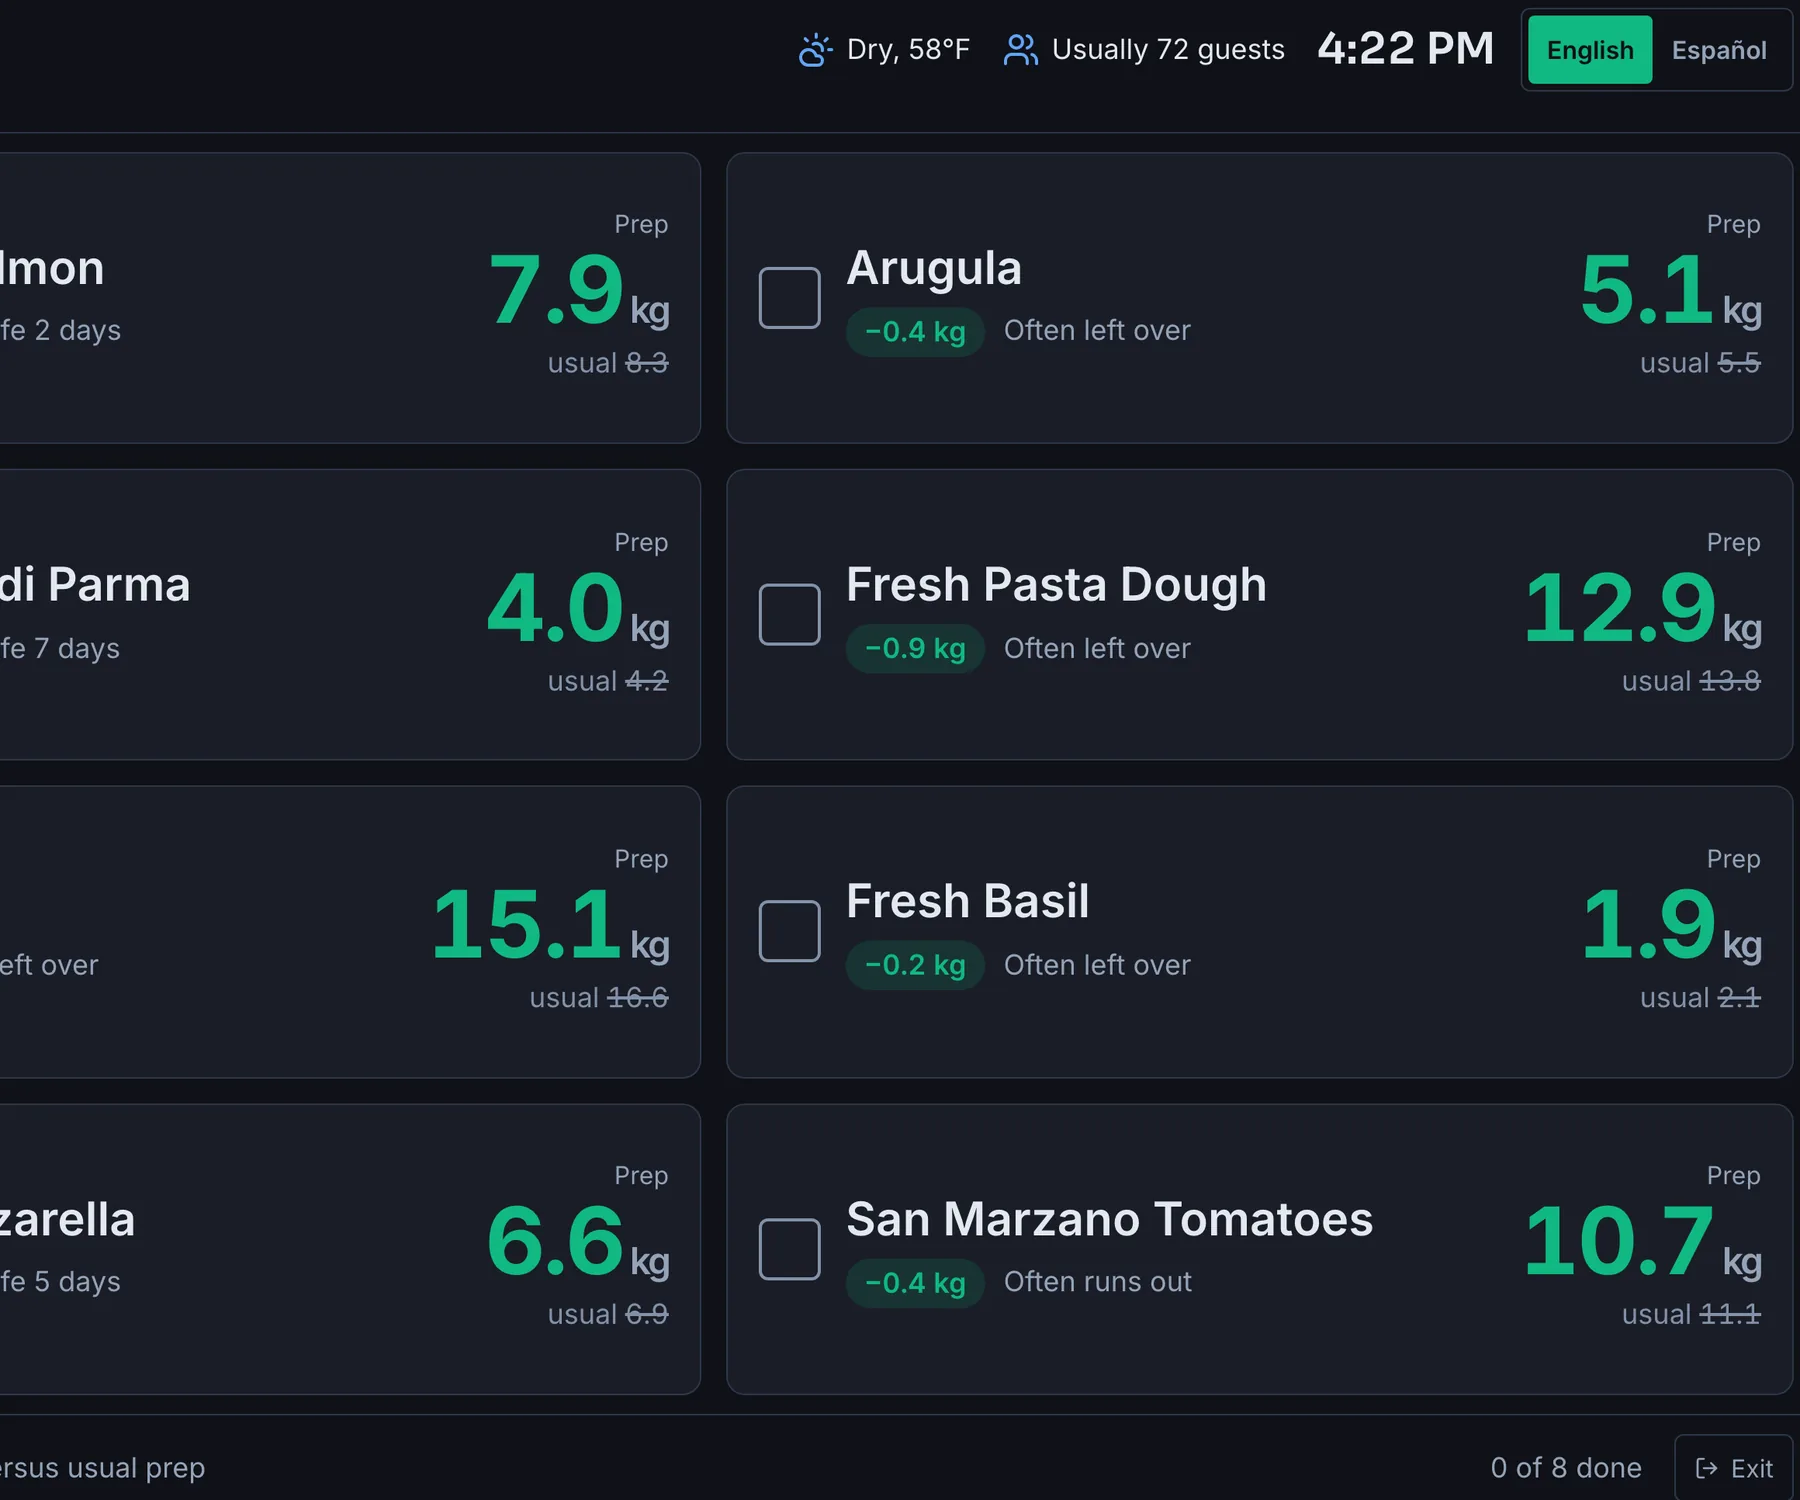
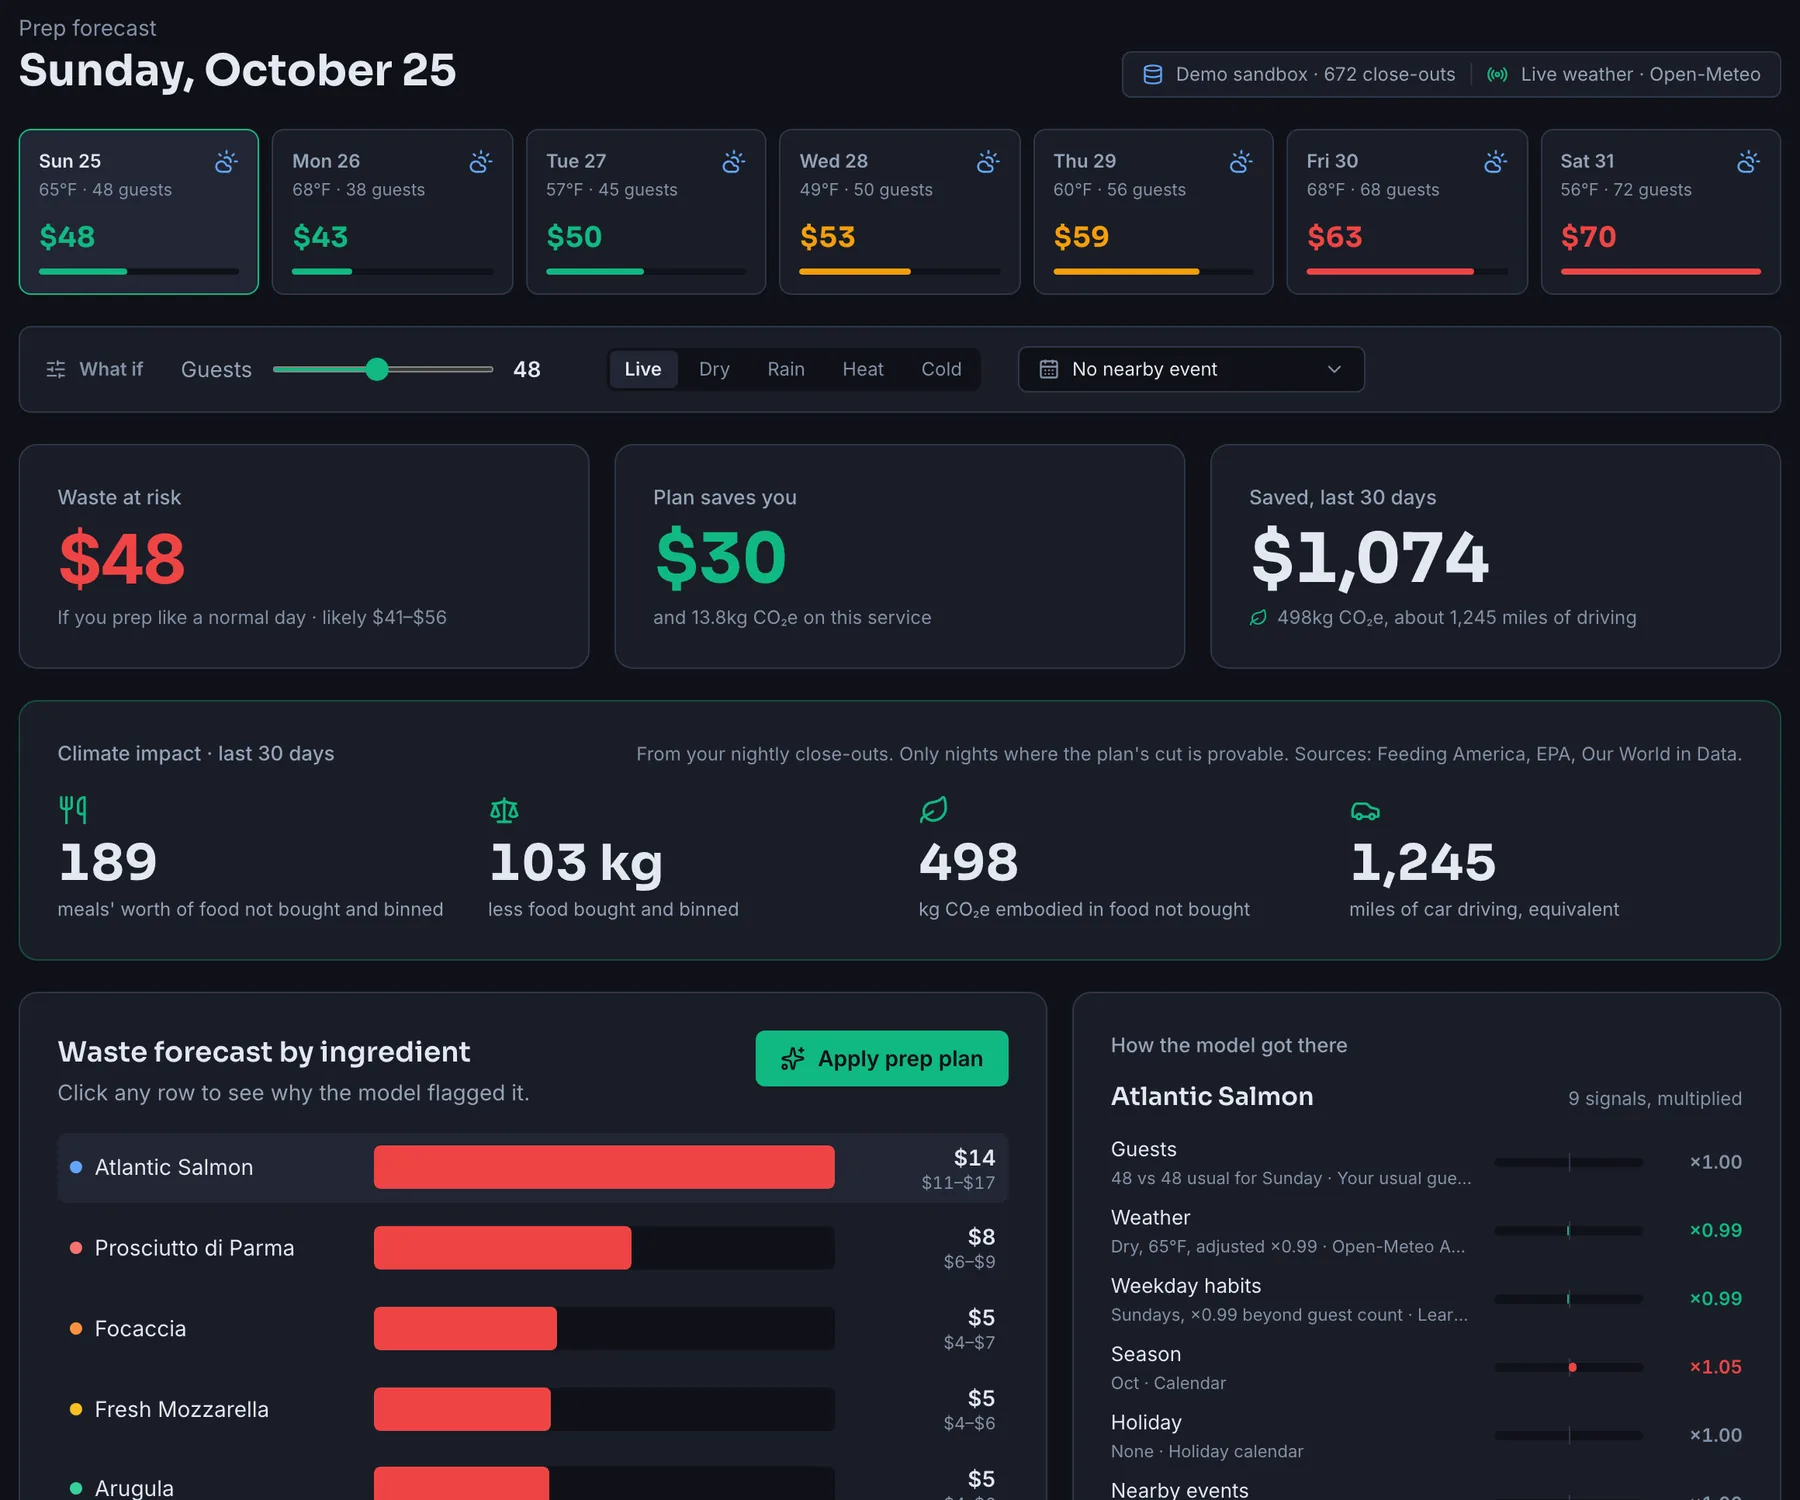
Front page and README screenshots

diff --git a/freshcast-app/components/landing/accuracy.tsx b/freshcast-app/components/landing/accuracy.tsx
@@ -15,14 +15,14 @@ export function Accuracy() {
 
   return (
     <section aria-labelledby="accuracy" className="border-t border-border bg-surface/40">
-      <div className="mx-auto grid max-w-6xl gap-10 px-5 py-16 sm:px-8 lg:grid-cols-[minmax(0,5fr)_minmax(0,7fr)] lg:gap-16 lg:py-20">
+      <div className="mx-auto grid max-w-6xl gap-10 px-5 py-20 sm:px-8 lg:grid-cols-[minmax(0,5fr)_minmax(0,7fr)] lg:gap-16 lg:py-32">
         <div className="min-w-0">
           <h2 id="accuracy" className="font-display text-4xl font-700 lg:text-5xl leading-tight text-text-primary">
             How close it gets
           </h2>
           <p className="mt-3 text-base leading-relaxed text-text-secondary">
-            Simulated kitchens with hidden habits the model never reads. {weeks} weeks, {bench.seeds.length} seeds,
-            scored on unseen nights. Real accuracy needs a real kitchen.
+            Scored on simulated kitchens whose hidden habits the model never reads. Real accuracy needs a real
+            kitchen.
           </p>
         </div>
 
@@ -30,26 +30,26 @@ export function Accuracy() {
           <table className="w-full text-left">
             <thead>
               <tr className="border-b border-border text-sm text-text-muted">
-                <th scope="col" className="py-3 pr-4 font-400">Kitchen</th>
-                <th scope="col" className="px-4 py-3 text-right font-400">FreshCast</th>
-                <th scope="col" className="px-4 py-3 text-right font-400">Owner&apos;s best guess</th>
-                <th scope="col" className="py-3 pl-4 text-right font-400">Ceiling</th>
+                <th scope="col" className="py-3 pr-2 font-400 sm:pr-4">Kitchen</th>
+                <th scope="col" className="px-2 py-3 text-right font-400 sm:px-4">FreshCast</th>
+                <th scope="col" className="px-2 py-3 text-right font-400 sm:px-4">Owner&apos;s guess</th>
+                <th scope="col" className="py-3 pl-2 text-right font-400 sm:pl-4">Ceiling</th>
               </tr>
             </thead>
             <tbody>
               {rows.map((r) => (
                 <tr key={r.id} className="border-b border-border">
-                  <th scope="row" className="py-4 pr-4 text-sm font-500 text-text-primary">{r.name}</th>
-                  <td className="px-4 py-4 text-right font-display text-2xl font-700 tabular-nums text-good">{pct(r.model)}</td>
-                  <td className="px-4 py-4 text-right text-base tabular-nums text-text-secondary">{pct(r.owner)}</td>
-                  <td className="py-4 pl-4 text-right text-base tabular-nums text-text-secondary">{pct(r.ceiling)}</td>
+                  <th scope="row" className="py-5 pr-2 text-sm font-500 sm:pr-4 sm:text-base text-text-primary">{r.name}</th>
+                  <td className="px-2 py-5 text-right font-display text-2xl sm:px-4 sm:text-3xl font-700 tabular-nums text-good">{pct(r.model)}</td>
+                  <td className="px-2 py-5 text-right text-sm sm:px-4 sm:text-base tabular-nums text-text-secondary">{pct(r.owner)}</td>
+                  <td className="py-5 pl-2 text-right text-sm sm:pl-4 sm:text-base tabular-nums text-text-secondary">{pct(r.ceiling)}</td>
                 </tr>
               ))}
             </tbody>
           </table>
           <p className="mt-4 text-sm leading-relaxed text-text-muted">
-            Accuracy is 1 − WAPE by kg. The owner recalls the last 4 same weekdays exactly. The ceiling knows the
-            hidden habits, not tonight&apos;s guests.
+            {weeks} weeks, {bench.seeds.length} seeds. Accuracy is 1 − WAPE by kg. The owner recalls the last 4 same
+            weekdays exactly; the ceiling knows the hidden habits.
           </p>
         </div>
       </div>

diff --git a/freshcast-app/app/page.tsx b/freshcast-app/app/page.tsx
@@ -27,8 +27,8 @@ export default function Home() {
       <main>
         <section className="mx-auto grid max-w-6xl gap-10 px-5 pb-16 pt-6 sm:px-8 lg:grid-cols-[minmax(0,1.08fr)_minmax(0,1fr)] lg:min-h-[calc(100svh-4rem)] lg:items-center lg:gap-12 lg:py-10">
           <div className="min-w-0">
-            <h1 className="font-display text-[2.6rem] font-700 leading-[1.05] text-text-primary [overflow-wrap:break-word] sm:text-6xl">
-              Prep less food. Throw less away.
+            <h1 className="font-display text-[2rem] font-700 leading-[1.05] text-text-primary [overflow-wrap:break-word] sm:text-5xl xl:text-6xl">
+              <span className="block">Prep less food.</span> <span className="block">Throw less away.</span>
             </h1>
             <p className="mt-5 max-w-[34rem] text-lg leading-relaxed text-text-secondary">
               Each morning, FreshCast tells an independent restaurant how much less of each ingredient to prep. No hardware.
@@ -40,9 +40,9 @@ export default function Home() {
             <Image
               src="/landing/dashboard.webp"
               width={1800}
-              height={1200}
+              height={1500}
               priority
-              sizes="(min-width: 1024px) 780px, 100vw"
+              unoptimized
               alt="The FreshCast forecast for Marco's Trattoria: a 7-day outlook with live weather, guests and dollars of likely waste per day, then today's waste at risk and what the prep plan saves."
               className="h-auto w-full max-w-none rounded-lg border border-border lg:w-[150%]"
             />

diff --git a/freshcast-app/components/landing/how-it-works.tsx b/freshcast-app/components/landing/how-it-works.tsx
@@ -13,13 +13,10 @@ const TERMS = [
 export function HowItWorks() {
   return (
     <section aria-labelledby="how" className="border-t border-border">
-      <div className="mx-auto max-w-6xl px-5 py-16 sm:px-8 lg:py-20">
-        <h2 id="how" className="max-w-xl font-display text-4xl font-700 lg:text-5xl leading-tight text-text-primary">
-          How the forecast works
+      <div className="mx-auto max-w-6xl px-5 py-20 sm:px-8 lg:py-32">
+        <h2 id="how" className="max-w-3xl font-display text-4xl font-700 lg:text-5xl leading-tight text-text-primary">
+          How it works: one multiplication
         </h2>
-        <p className="mt-3 max-w-xl text-base leading-relaxed text-text-secondary">
-          One multiplication per ingredient, with every factor shown in the app.
-        </p>
 
         <ol className="mt-10 grid overflow-hidden rounded-lg border border-border md:grid-cols-4">
           {TERMS.map((t, i) => (
@@ -41,8 +38,7 @@ export function HowItWorks() {
         </ol>
 
         <p className="mt-8 max-w-2xl text-lg leading-relaxed text-text-primary">
-          The plan preps <span className="font-700 text-good">{pct(REDUCTION_RATE)} of that</span> less. The rest is a
-          buffer against running out.
+          Then prep <span className="font-700 text-good">{pct(REDUCTION_RATE)} of that</span> less. The rest is a buffer.
         </p>
       </div>
     </section>

diff --git a/README.md b/README.md
@@ -4,6 +4,8 @@
 
 **Prep less. Waste less.** FreshCast tells an independent restaurant, each morning, how much less of each ingredient to prep, so less food is bought, cooked and thrown out. It needs no hardware. It uses the restaurant's usual guests for that weekday, live local weather and the calendar, and it learns each kitchen from a short log at close.
 
+![The FreshCast front page: pick one of three demo kitchens, next to the live forecast](docs/screenshots/front-page.jpg)
+
 Built solo at Hackachusetts 2026. **Track: Climate Tech.** How Kiro was used: [KIRO.md](KIRO.md). Submission text: [SUBMISSION.md](SUBMISSION.md).
 
 ## Why it matters
@@ -35,6 +37,15 @@ Each one has its own menu, its own hidden simulated habits, its own local weathe
 | Model accuracy (`/model`) | Per restaurant. How the morning forecast has done against each close-out (scored leak-free), how often nights landed in the 80% range, per-item accuracy, bias and sold-out nights, and suggested actions. Also the benchmark: each model version, the owner's best guess, and staff effort vs. accuracy. |
 | Set up (`/setup`) | Add your own restaurant: search OpenStreetMap (Nominatim) to fill in name, address, cuisine and opening hours, then guests and starter ingredients. Saved on your device only. |
 | Pitch deck (`/pitch`) | The pitch, wired to the same data. Arrow keys to move, `F` for full screen, `?s=N` to jump to slide N, `?cut=video&cam=1` for the recording version. |
+
+| | |
+|---|---|
+| ![Forecast for Marco's Trattoria](docs/screenshots/forecast.jpg) | ![Signal breakdown for Atlantic Salmon](docs/screenshots/signal-breakdown.jpg) |
+| **Forecast.** Marco's 7-day outlook with live weather, today's waste at risk and what the plan saves. | **How the model got there.** All 9 signals for one ingredient, the equation and its 80% range. |
+| ![Log waste screen](docs/screenshots/log-waste.jpg) | ![Model accuracy for Kendall Bowl Co.](docs/screenshots/model-accuracy.jpg) |
+| **Log waste.** Tap an item, tap a portion, then close out with guests served. | **Model accuracy.** Kendall Bowl Co.'s own track record against each close-out. |
+| ![Kendall Bowl Co. week strip with Sunday closed](docs/screenshots/kitchen-closed-sunday.jpg) | ![Setup: find your restaurant on OpenStreetMap](docs/screenshots/setup.jpg) |
+| **Closed days.** Kendall is closed Sundays, so there is no forecast and no prep. | **Set up.** Search OpenStreetMap to fill in your own restaurant. |
 
 ## How the model works
 All of it is TypeScript arithmetic in `freshcast-app/lib/`. No LLM touches the numbers.
